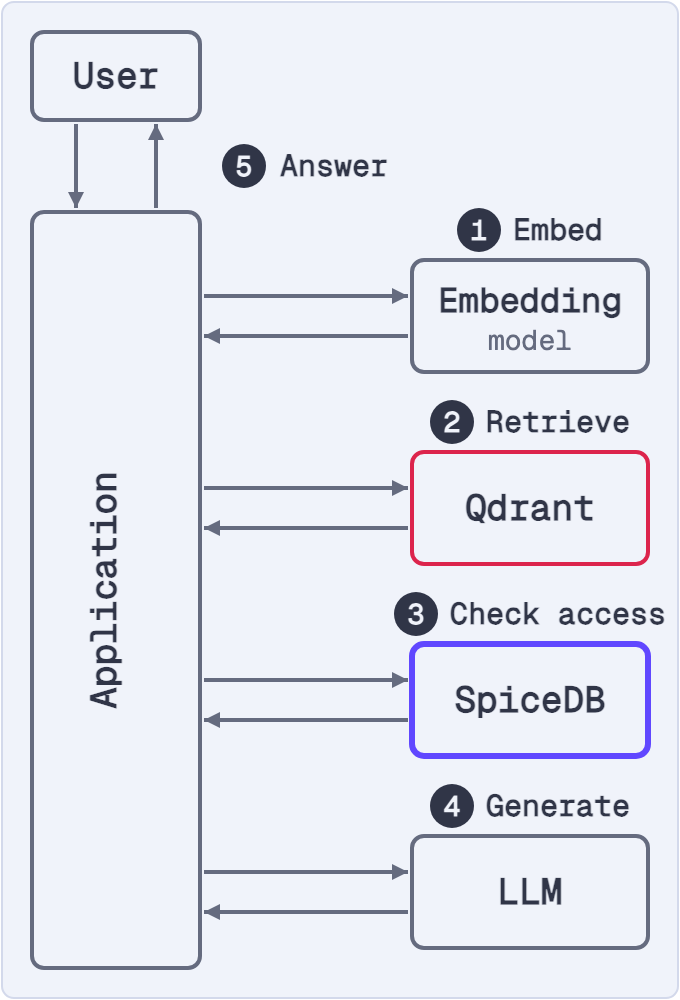
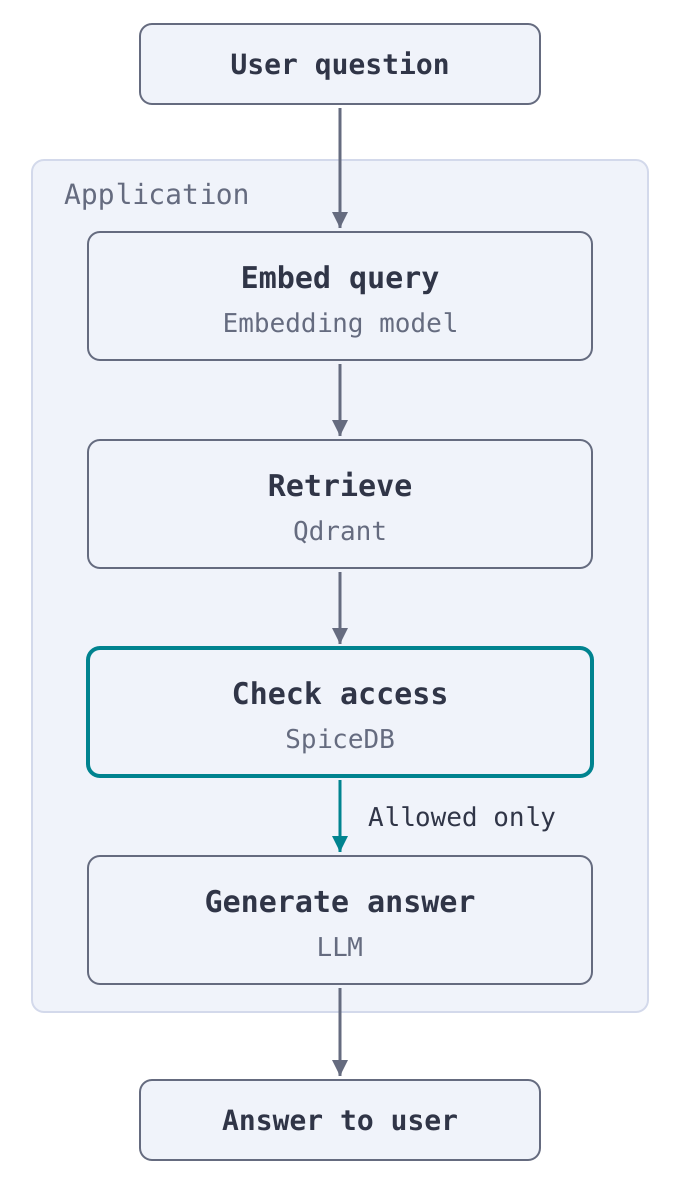
Clarify the Qdrant SpiceDB application workflow

diff --git a/qdrant-landing/content/documentation/headless/fine-grained-permissions-spicedb/architecture/index.js b/qdrant-landing/content/documentation/headless/fine-grained-permissions-spicedb/architecture/index.js
@@ -1,104 +1,85 @@
-/* Static, theme-aware figure on the existing island loader, following
- * content/documentation/headless/agentic-rag-langgraph/workflow. No controls:
- * the whole idea stays visible without interaction. svg() is also the source
- * for the self-contained SVG/PNG fallbacks in
- * static/documentation/tutorials-build-essentials/fine-grained-rag-permissions-qdrant-spicedb/.
+/* Application data flow. Service names identify the dependency of each step;
+ * the application makes the calls and removes denied documents. The exported
+ * narrow SVG is also the source of the static image fallback.
  */
 let instance = 0;
 
-function defs(id) {
-  const head = (suffix, cls) =>
-    `<marker id="${id}-arrow${suffix}" viewBox="0 0 8 8" refX="8" refY="4" markerWidth="8" markerHeight="8" markerUnits="userSpaceOnUse" orient="auto-start-reverse"><path d="M0 0 L8 4 L0 8 Z" class="qi-sp__head ${cls}"/></marker>`;
-  return `<defs>${head('', '')}${head('-hot', 'qi-sp__head--hot')}${head('-deny', 'qi-sp__head--deny')}</defs>`;
-}
-function text(x, y, s, size, cls = '', anchor = 'middle') {
-  return `<text x="${x}" y="${y}" class="qi-label ${cls}" style="font-size:${size}px;text-anchor:${anchor}">${s}</text>`;
-}
-function lines(x, ys, items, size, anchor) {
-  return items.map((s, i) => text(x, ys[i], s, size, '', anchor)).join('');
-}
-function box(x, y, w, h, cls = '', rx = 6) {
-  return `<rect x="${x}" y="${y}" width="${w}" height="${h}" rx="${rx}" class="qi-frame qi-sp__node ${cls}"/>`;
-}
-function edge(id, d, kind = '', extra = '') {
-  const suffix = kind === 'hot' ? '-hot' : kind === 'deny' ? '-deny' : '';
-  const cls = kind ? `qi-sp__edge--${kind}` : '';
-  return `<path d="${d}" class="qi-sp__edge ${cls} ${extra}" marker-end="url(#${id}-arrow${suffix})"/>`;
-}
-function frame(w, h) {
-  return `<rect x="1" y="1" width="${w - 2}" height="${h - 2}" rx="6" class="qi-frame"/>`;
-}
-function open(w, h, cls, label) {
-  return `<svg xmlns="http://www.w3.org/2000/svg" viewBox="0 0 ${w} ${h}" class="qi-svg ${cls}" role="img" aria-label="${label}">`;
-}
-
 const ROOT = 'qi-sp-arch';
-const HOT = false;
-const LABEL = 'The user asks the application a question. The application runs four numbered steps in order: 1, embed the query with the embedding model; 2, retrieve candidate documents from Qdrant; 3, check access in SpiceDB; 4, generate the answer with the LLM from the allowed documents only. Step 5 returns the answer to the user.';
-
-/* The four services sit in one row in the order the application calls them,
-   so the reader sees that the SpiceDB check (3) comes before the LLM (4).
-   Data and API names live in the surrounding text, not on the arrows. */
-const strong = 'qi-label--strong qi-sp__label';
-function step(x, y, n) {
-  return `<circle cx="${x}" cy="${y}" r="11" class="qi-sp__step"/>` +
-    `<text x="${x}" y="${y + 5}" class="qi-label qi-sp__step-num" style="font-size:14px;text-anchor:middle">${n}</text>`;
-}
-/* Badge plus verb, centered on cx. Geist Mono advances 0.6em per glyph. */
-function stepLabel(cx, y, n, verb) {
-  const w = 28 + verb.length * 9;
-  const x0 = cx - w / 2;
-  return step(x0 + 11, y - 5, n) + text(x0 + 28, y, verb, 15, strong, 'start');
-}
-const SERVICES = [
-  ['Embedding', 'model', '', 'Embed'],
-  ['Qdrant', '', 'qi-sp__node--qdrant', 'Retrieve'],
-  ['SpiceDB', '', 'qi-sp__node--authz', 'Check access'],
-  ['LLM', '', '', 'Generate'],
+const LABEL = 'The user sends a question to the application. The application embeds the question and retrieves candidate documents from Qdrant. It checks their document IDs with SpiceDB and removes denied documents. The LLM receives only authorized context. The application returns the answer to the user.';
+const STEPS = [
+  ['Embed query', 'Embedding model'],
+  ['Retrieve', 'Qdrant'],
+  ['Check access', 'SpiceDB'],
+  ['Generate answer', 'LLM'],
 ];
-function service(cx, y, w, h, [a, b, cls]) {
-  return box(cx - w / 2, y, w, h, cls) +
-    (b ? text(cx, y + h / 2 - 2, a, 17, strong) + text(cx, y + h / 2 + 17, b, 14)
-       : text(cx, y + h / 2 + 6, a, 18, strong));
+
+function text(x, y, value, cls = '', anchor = 'middle') {
+  return `<text x="${x}" y="${y}" class="qi-label ${cls}" text-anchor="${anchor}">${value}</text>`;
 }
+
+function box(x, y, w, h, cls = '') {
+  return `<rect x="${x}" y="${y}" width="${w}" height="${h}" rx="6" class="qi-frame ${cls}"/>`;
+}
+
+function edge(id, path, authorized = false) {
+  return `<path d="${path}" class="qi-sp-arch__edge${authorized ? ' qi-sp-arch__edge--authorized' : ''}" marker-end="url(#${id}${authorized ? '-authorized' : ''})"/>`;
+}
+
+function stage(x, y, w, h, step) {
+  const [title, service] = STEPS[step];
+  return box(x, y, w, h, `qi-sp-arch__node${step === 2 ? ' qi-sp-arch__node--authorization' : ''}`) +
+    text(x + w / 2, y + 28, title, 'qi-label--strong qi-sp-arch__title') +
+    text(x + w / 2, y + 50, service, 'qi-sp-arch__service');
+}
+
 export function svg(narrow = false, id = ROOT) {
+  const w = narrow ? 340 : 760;
+  const h = narrow ? 596 : 294;
+  let out = `<svg xmlns="http://www.w3.org/2000/svg" viewBox="0 0 ${w} ${h}" class="qi-svg qi-sp-arch__${narrow ? 'narrow' : 'wide'}" role="img" aria-label="${LABEL}">`;
+  out += '<defs>' + ['', '-authorized'].map(suffix =>
+    `<marker id="${id}${suffix}" viewBox="0 0 8 8" refX="8" refY="4" markerWidth="8" markerHeight="8" markerUnits="userSpaceOnUse" orient="auto"><path d="M0 0 L8 4 L0 8 Z" class="qi-sp-arch__head${suffix ? ' qi-sp-arch__head--authorized' : ''}"/></marker>`
+  ).join('') + '</defs>';
+
   if (narrow) {
-    const W = 340, H = 500;
-    let out = open(W, H, 'qi-sp__narrow', LABEL) + defs(id) + frame(W, H) +
-      box(16, 16, 84, 44) + text(58, 44, 'User', 18, strong) +
-      edge(id, 'M38 62 V104') + edge(id, 'M78 104 V62') +
-      step(122, 83, 5) + text(140, 88, 'Answer', 15, strong, 'start') +
-      box(16, 106, 84, 378) +
-      `<text x="58" y="295" class="qi-label qi-label--strong qi-sp__label" style="font-size:18px;text-anchor:middle" transform="rotate(-90 58 295)">Application</text>`;
-    SERVICES.forEach((s, i) => {
-      const y = 130 + i * 96;
-      out += stepLabel(265, y - 10, i + 1, s[3]) +
-        service(265, y, 118, 56, s) +
-        edge(id, `M102 ${y + 18} H204`) + edge(id, `M204 ${y + 38} H102`);
+    out += box(16, 80, 308, 426) +
+      text(32, 102, 'Application', 'qi-sp-arch__boundary-label', 'start') +
+      box(70, 12, 200, 40, 'qi-sp-arch__node') +
+      text(170, 37, 'User question', 'qi-label--strong qi-sp-arch__endpoint') +
+      edge(id, 'M170 54 V114');
+    STEPS.forEach((_, i) => {
+      const y = 116 + i * 104;
+      out += stage(44, y, 252, 64, i);
+      if (i < STEPS.length - 1) out += edge(id, `M170 ${y + 66} V${y + 102}`, i === 2);
     });
-    return out + '</svg>';
+    out += text(184, 413, 'Allowed only', 'qi-label--strong qi-sp-arch__service', 'start') +
+      edge(id, 'M170 494 V538') +
+      box(70, 540, 200, 40, 'qi-sp-arch__node') +
+      text(170, 565, 'Answer to user', 'qi-label--strong qi-sp-arch__endpoint');
+  } else {
+    out += box(16, 90, 728, 188) +
+      text(380, 116, 'Application workflow', 'qi-sp-arch__boundary-label') +
+      box(32, 16, 156, 44, 'qi-sp-arch__node') +
+      text(110, 43, 'User question', 'qi-label--strong qi-sp-arch__endpoint') +
+      edge(id, 'M110 62 V142') +
+      box(572, 16, 156, 44, 'qi-sp-arch__node') +
+      text(650, 43, 'Answer to user', 'qi-label--strong qi-sp-arch__endpoint') +
+      edge(id, 'M650 142 V62');
+    STEPS.forEach((_, i) => {
+      const x = 32 + i * 180;
+      out += stage(x, 144, 156, 72, i);
+      if (i < STEPS.length - 1) out += edge(id, `M${x + 158} 180 H${x + 178}`, i === 2);
+    });
+    out += text(32, 258, 'The application calls each service.', 'qi-sp-arch__service', 'start') +
+      text(560, 246, 'Authorized context only', 'qi-label--strong qi-sp-arch__service');
   }
-  const W = 760, H = 304;
-  let out = open(W, H, 'qi-sp__wide', LABEL) + defs(id) + frame(W, H) +
-    box(16, 178, 92, 56) + text(62, 212, 'User', 20, strong) +
-    edge(id, 'M110 206 H134') +
-    edge(id, 'M180 236 V282 H62 V238') + step(98, 266, 5) + text(116, 271, 'Answer', 15, strong, 'start') +
-    box(136, 178, 608, 56) + text(440, 212, 'Application', 20, strong);
-  SERVICES.forEach((s, i) => {
-    const cx = 201 + i * 159;
-    out += stepLabel(cx, 30, i + 1, s[3]) +
-      service(cx, 44, 130, 56, s) +
-      edge(id, `M${cx - 16} 176 V102`) + edge(id, `M${cx + 16} 102 V176`);
-  });
   return out + '</svg>';
 }
 
 export function mount(node) {
-  node.classList.add('qi-sp', ROOT);
+  node.classList.add(ROOT);
   const wrapper = node.closest('.island');
-  // The shared loader injects CSS without waiting for it. Do not expose an
-  // unstyled drawing or signal ready until this figure's stylesheet is usable.
   const stylesheet = document.querySelector(`link[href="${wrapper.dataset.islandCss}"]`);
+  const fail = () => node.dispatchEvent(new CustomEvent('island:error', { bubbles: true }));
   const render = () => {
     if (wrapper.classList.contains('is-failed')) return;
     if (getComputedStyle(node).getPropertyValue('--qi-sp-ready').trim() !== '1') {
@@ -109,7 +90,6 @@ export function mount(node) {
     node.innerHTML = svg(false, `${id}-wide`) + svg(true, `${id}-narrow`);
     node.dispatchEvent(new CustomEvent('island:ready', { bubbles: true }));
   };
-  const fail = () => node.dispatchEvent(new CustomEvent('island:error', { bubbles: true }));
   if (!stylesheet) fail();
   else if (stylesheet.sheet) render();
   else {

diff --git a/qdrant-landing/content/documentation/headless/fine-grained-permissions-spicedb/architecture/index.css b/qdrant-landing/content/documentation/headless/fine-grained-permissions-spicedb/architecture/index.css
@@ -1,39 +1,46 @@
-/* A successful stylesheet response must also apply this scoped marker. */
-.qi-sp-arch { --qi-sp-ready: 1; }
-/* Geometry and contrast adjustments only; typography and colors inherit the
-   shared qi design system. Shared by the five figures of this tutorial:
-   neutral nodes, Qdrant in --qi-cat-4, SpiceDB and authorization in
-   --qi-cat-1, a found path in --qi-cat-3, a denial in --qi-accent. Every
-   color cue is repeated by a label, a dashed line, or dimming. */
-.qi-sp .qi-sp__node { stroke: var(--qi-muted); stroke-width: 2; vector-effect: non-scaling-stroke; }
-.qi-sp .qi-sp__node--rel { stroke: var(--qi-line); }
-.qi-sp .qi-sp__node--qdrant { stroke: var(--qi-cat-4); }
-.qi-sp .qi-sp__node--authz { stroke: var(--qi-cat-1); stroke-width: 3; }
-.qi-sp .qi-sp__node--hot { stroke: var(--qi-cat-3); stroke-width: 3; }
-.qi-sp .qi-sp__node--deny { stroke: var(--qi-accent); stroke-width: 2.5; }
-.qi-sp .qi-sp__dim { opacity: 0.4; }
-.qi-sp .qi-sp__dashed { stroke-dasharray: 6 5; }
-.qi-sp .qi-sp__label { font-weight: 600; }
-.qi-sp .qi-sp__kicker { letter-spacing: 0.08em; }
-.qi-sp .qi-sp__edge { fill: none; stroke: var(--qi-muted); stroke-width: 2; vector-effect: non-scaling-stroke; }
-.qi-sp .qi-sp__edge--hot { stroke: var(--qi-cat-3); stroke-width: 3; }
-.qi-sp .qi-sp__edge--deny { stroke: var(--qi-accent); stroke-dasharray: 6 5; }
-.qi-sp .qi-sp__head { fill: var(--qi-muted); }
-.qi-sp .qi-sp__head--hot { fill: var(--qi-cat-3); }
-.qi-sp .qi-sp__head--deny { fill: var(--qi-accent); }
-.qi-sp .qi-sp__step { fill: var(--qi-fg); }
-.qi-sp .qi-sp__step-num { fill: var(--qi-surface); font-weight: 600; }
-.qi-sp .qi-sp__cross { fill: var(--qi-surface); stroke: var(--qi-accent); stroke-width: 2; vector-effect: non-scaling-stroke; }
-
-.qi-sp { container-type: inline-size; }
-.qi-sp__narrow { display: none; max-width: 340px; margin-inline: auto; }
+/* Shared typography and theme colors; only the authorization step is accented.
+   Scope every rule to this figure so neighboring figures remain independent. */
+.qi-sp-arch {
+  --qi-sp-ready: 1;
+  container-type: inline-size;
+}
+.qi-sp-arch .qi-sp-arch__node {
+  stroke: var(--qi-muted);
+  stroke-width: 1;
+}
+.qi-sp-arch .qi-sp-arch__node--authorization {
+  stroke: var(--qi-cat-3);
+  stroke-width: 2;
+}
+.qi-sp-arch .qi-sp-arch__title {
+  font-size: 15px;
+  font-weight: 600;
+}
+.qi-sp-arch .qi-sp-arch__endpoint {
+  font-size: 14px;
+  font-weight: 600;
+}
+.qi-sp-arch .qi-sp-arch__boundary-label { font-size: 14px; }
+.qi-sp-arch .qi-sp-arch__service { font-size: 13px; }
+.qi-sp-arch .qi-sp-arch__edge {
+  fill: none;
+  stroke: var(--qi-muted);
+  stroke-width: 1.5;
+}
+.qi-sp-arch .qi-sp-arch__edge--authorized { stroke: var(--qi-cat-3); }
+.qi-sp-arch .qi-sp-arch__head { fill: var(--qi-muted); }
+.qi-sp-arch .qi-sp-arch__head--authorized { fill: var(--qi-cat-3); }
+.qi-sp-arch .qi-sp-arch__narrow {
+  display: none;
+  max-width: 340px;
+  margin-inline: auto;
+}
 @container (max-width: 600px) {
-  .qi-sp__wide { display: none; }
-  .qi-sp__narrow { display: block; }
+  .qi-sp-arch .qi-sp-arch__wide { display: none; }
+  .qi-sp-arch .qi-sp-arch__narrow { display: block; }
 }
 
-/* The shortcode reserves the narrow fallback even when this lazy stylesheet
-   cannot load. Expand only a successfully mounted illustration. */
+/* Reserve the narrow fallback before initialization; expand only the live view. */
 .island.is-ready[data-island='content/documentation/headless/fine-grained-permissions-spicedb/architecture'] .island__stage {
   max-width: 760px !important;
 }

diff --git a/qdrant-landing/content/documentation/tutorials-build-essentials/fine-grained-rag-permissions-qdrant-spicedb.md b/qdrant-landing/content/documentation/tutorials-build-essentials/fine-grained-rag-permissions-qdrant-spicedb.md
@@ -42,8 +42,8 @@ You could add pseudo-departments, copy allow-lists into every point's payload, o
 
 This tutorial splits the job between two systems. **Qdrant finds** the documents that are relevant to a question, and **[SpiceDB](https://github.com/authzed/spicedb) decides** who can see them. Every Qdrant point carries a `doc_id` in its payload, SpiceDB stores who can view each `doc_id`, and an authorization step checks every retrieved document before any of them reach the LLM:
 
-{{< island path="content/documentation/headless/fine-grained-permissions-spicedb/architecture" width="340" ratio="340 / 500" title="Fig. 1: The request flow. The application checks access in SpiceDB (step 3) before it sends anything to the LLM (step 4)." >}}
-![The user asks the application a question. The application runs four numbered steps in order: 1, embed the query with the embedding model; 2, retrieve candidate documents from Qdrant; 3, check access in SpiceDB; 4, generate the answer with the LLM from the allowed documents only. Step 5 returns the answer to the user.](/documentation/tutorials-build-essentials/fine-grained-rag-permissions-qdrant-spicedb/architecture-mobile.png)
+{{< island path="content/documentation/headless/fine-grained-permissions-spicedb/architecture" width="340" ratio="340 / 596" title="Fig. 1: The application embeds the query, retrieves candidates from Qdrant, checks document IDs in SpiceDB, and sends only authorized context to the LLM." >}}
+![The user sends a question to the application. The application embeds the question and retrieves candidate documents from Qdrant. It checks their document IDs with SpiceDB and removes denied documents. The LLM receives only authorized context. The application returns the answer to the user.](/documentation/tutorials-build-essentials/fine-grained-rag-permissions-qdrant-spicedb/architecture-mobile.png)
 {{< /island >}}
 
 In this tutorial, you'll use SpiceDB to:
